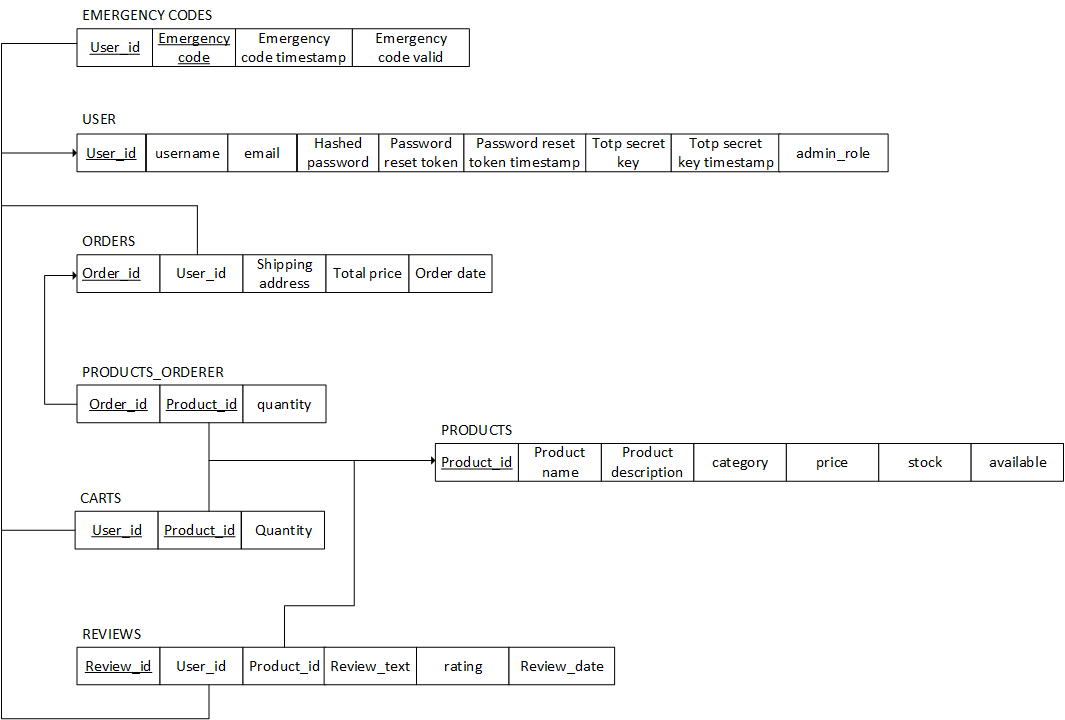
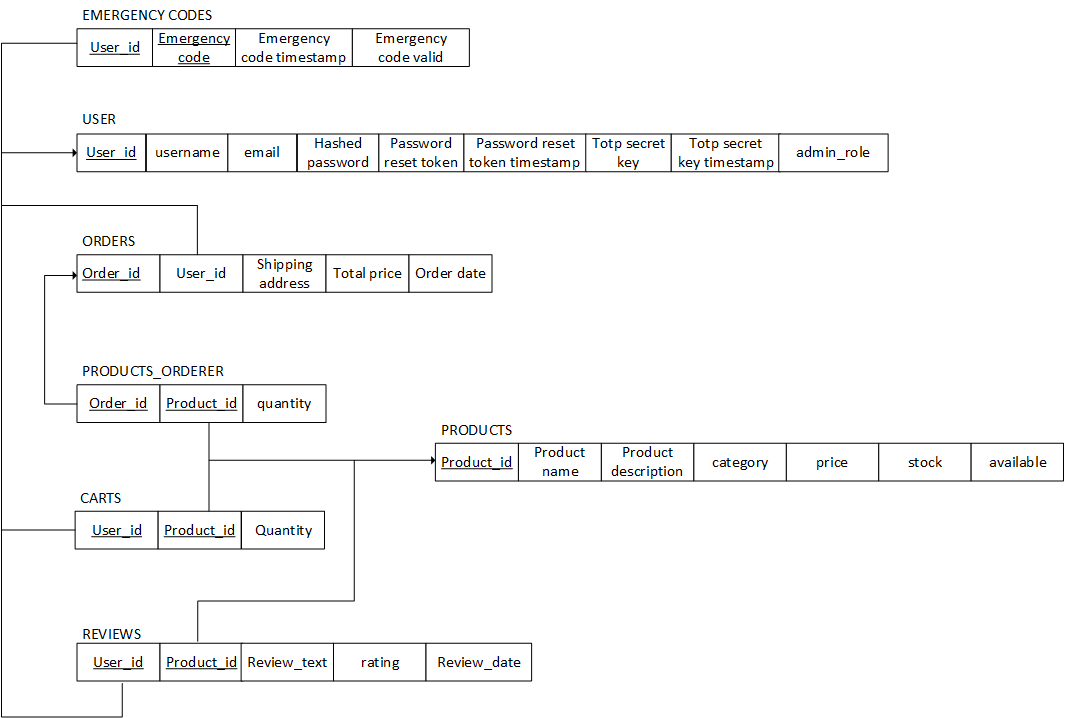
der e ER modificados

diff --git a/Reports/APFT_107266_114514/apft_submit.md b/Reports/APFT_107266_114514/apft_submit.md
@@ -68,7 +68,7 @@ There will be one main entity, the `Users`:
 
 ### APFE
 
-No improvements were made following the APFE assignment. The database design was appropriate and aligned with the requirements necessary to build the application.
+Following the APFE assignment only one change was made: Dropped review_id column from table reviews, a user_id alongside with product_id were made the primary key of the table, and as this change made `Reviews` a weak entity, we represented this change in DER.
 
 # ER - Relational Schema
 
@@ -78,7 +78,7 @@ No improvements were made following the APFE assignment. The database design was
 
 ### APFE
 
-No improvements were made following the APFE assignment. The database design was appropriate and aligned with the requirements necessary to build the application.
+Following the APFE assignment only one change was made: Dropped review_id column from table reviews, a user_id alongside with product_id were made the primary key of the table.
 
 # SQL DDL - Data Definition Language
 
@@ -236,6 +236,8 @@ WHERE orders.user_id = ? AND products_ordered.product_id = ?;
 
 To avoid redundancy in the relationship `Orders contains Products`, we created an auxiliary table `Products Ordered`, thereby ensuring adherence to the Third Normal Form (3NF) instead of placing all information within a single table.
 
+Also, on the table `Reviews`, `product_id` alongside `user_id` would uniquely define review_id, violating the 3rd normal form, so in order to prevent that from happening, a normalization on that table was made, removing the column `review_id` from the column and promoting the candidate key (`user_id`, `product_id`) to a primary key fixed the issue and setting the table to respect 3FN.
+
 Additionally, beyond the normalization mentioned, we designed the database with normal forms in mind from the outset. This approach enabled us to achieve a cleaner database design and minimize the number of NULL entries in the tables.
 
 # Indexes
@@ -293,7 +295,7 @@ To use your database, follow these steps:
 
 # Database init data
 
-[Indexes File](sql/04_db_init.sql "SQLFileQuestion")
+[SQL Initial Data File](sql/04_db_init.sql "SQLFileQuestion")
 
 # Presentation
 
